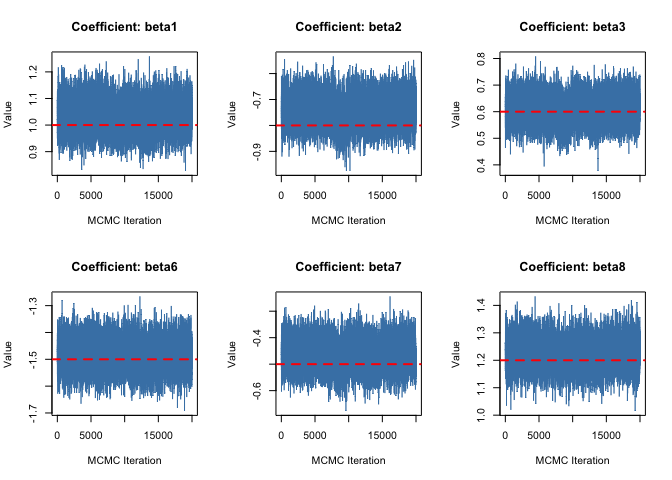
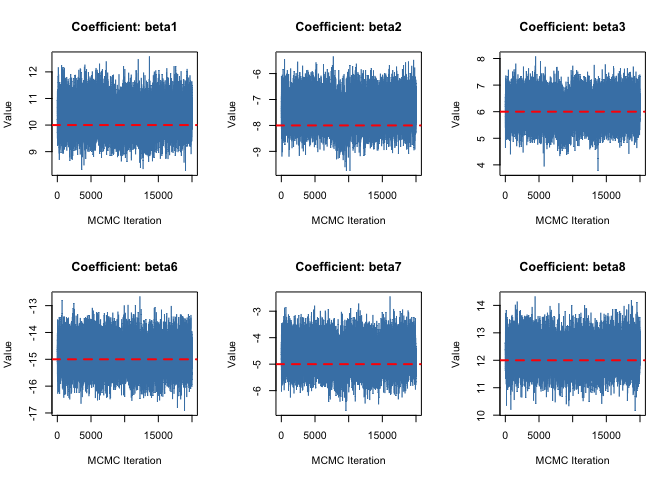
Re-knit README with updated coefficients and plots

diff --git a/README.md b/README.md
@@ -1,3 +1,7 @@
+README
+================
+Kai Jiang
+
 # BSRMM
 
 Bayesian Sparse Regression for Microbiome–Metabolite Data Integration
@@ -59,7 +63,7 @@ outcome <- mydata$Y_miss
 
     The nonzero coefficients are:  1 2 3 6 7 8 
 
-    The value of the nonzero coefficients are:  1 -0.8 0.6 -1.5 -0.5 1.2 
+    The value of the nonzero coefficients are:  10 -8 6 -15 -5 12 
 
 ### Model Fitting
 
@@ -167,4 +171,4 @@ If you use this repository, please cite:
 
 **Reference**: Jiang K, Saha S, Peterson CB. Bayesian Sparse Regression
 for Microbiome–Metabolite Data Integration. *Statistics in Medicine*.
-2026;45(13-14):e70607. doi:10.1002/sim.70607
+2026;45(13-14):e70607. <doi:10.1002/sim.70607>
